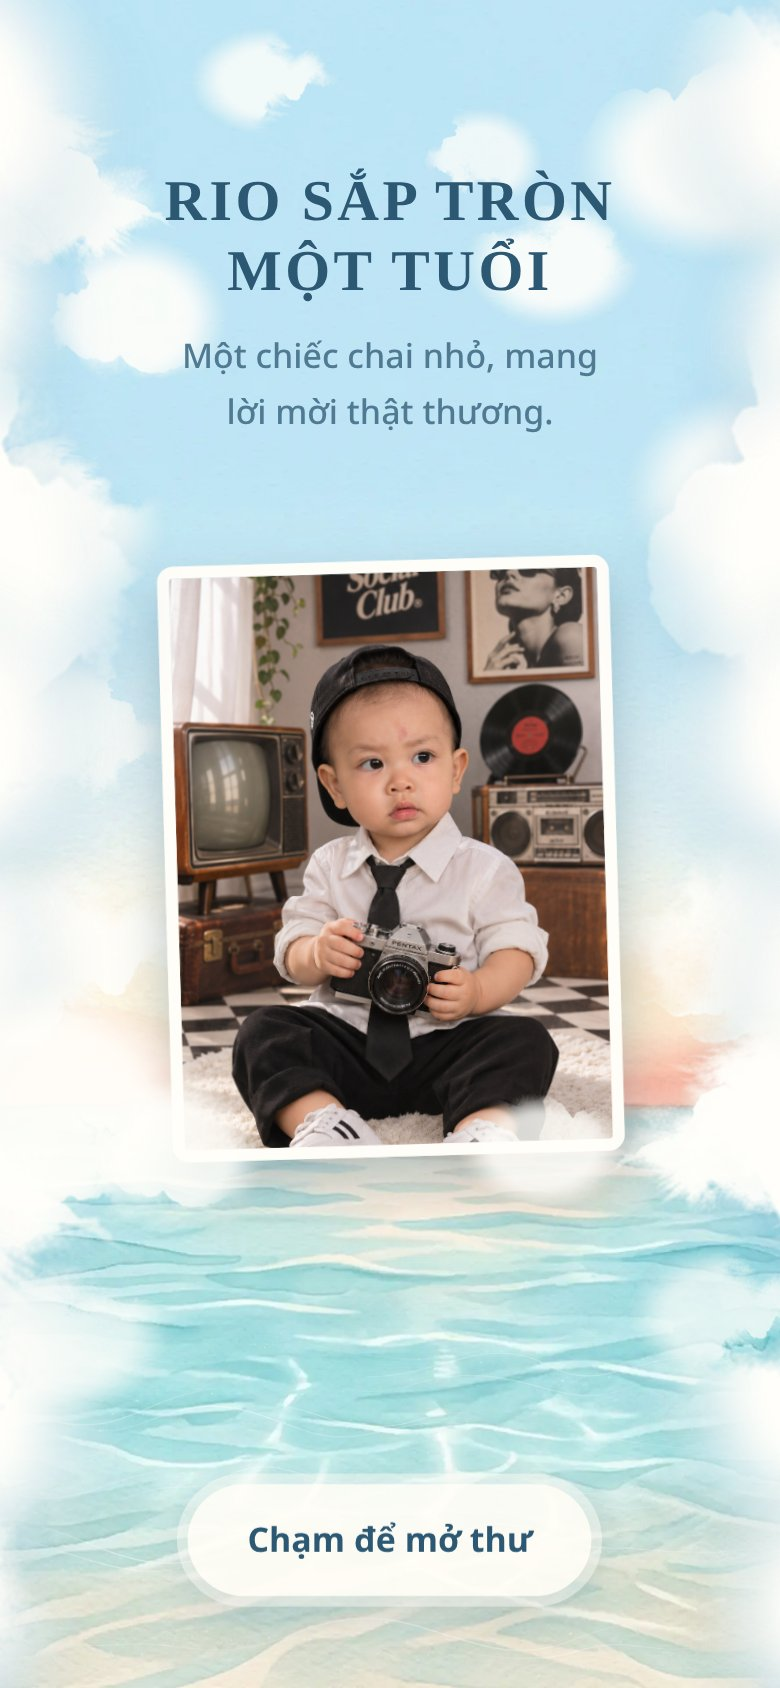
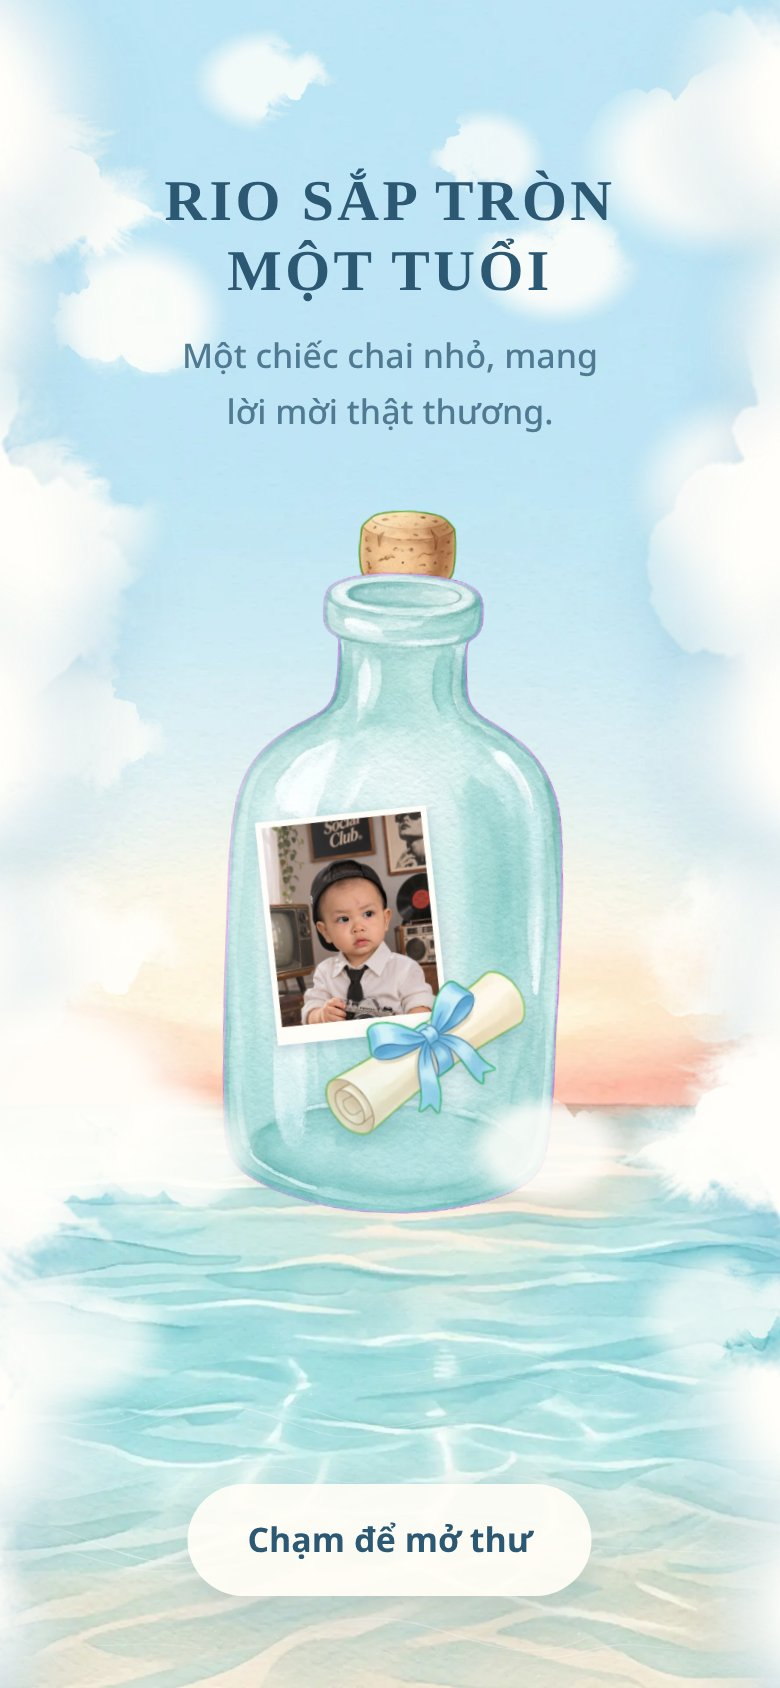
khach chu-thien-duong: khoi phuc bia chai goc, chi doi anh nho trong chai sang anh Rio cam may anh

diff --git a/products/Invitation/Other/khach_chu-thien-duong/index.html b/products/Invitation/Other/khach_chu-thien-duong/index.html
@@ -45,8 +45,7 @@ a{color:inherit}
 .bia-tieu{font-family:var(--font-h);font-weight:600;font-size:clamp(1.65rem,7.4vw,2.2rem);letter-spacing:.06em;line-height:1.2;color:var(--ink);animation:hien 1.8s var(--soft) both .2s}
 .bia-sub{text-wrap:balance;font-size:1.06rem;color:var(--ink-2);margin-top:10px;animation:hien 1.8s var(--soft) both .7s}
 @keyframes hien{from{opacity:0;transform:translateY(16px)}to{opacity:1;transform:none}}
-.chai-dat{--w:min(58vw,32svh,250px);position:absolute;z-index:2;left:50%;top:33svh;width:var(--w);margin-left:calc(var(--w) / -2);cursor:pointer;animation:troi-vao 3.6s var(--soft) both}
-.chai-anh-moi{position:relative;display:block;width:100%;border:6px solid #fffdf8;border-radius:8px;box-shadow:0 12px 26px rgba(44,88,115,.35);transform:rotate(-2deg)}
+.chai-dat{--w:min(44vw,23svh,210px);position:absolute;z-index:2;left:50%;top:33svh;width:var(--w);margin-left:calc(var(--w) / -2);cursor:pointer;animation:troi-vao 3.6s var(--soft) both}
 @keyframes troi-vao{from{opacity:0;transform:translate(-62vw,7svh) rotate(-16deg)}to{opacity:1;transform:none}}
 .chai-bob{position:relative;display:block;width:100%;animation:bob 7s ease-in-out infinite alternate;transform-origin:50% 72%}
 @keyframes bob{from{transform:translateY(-7px) rotate(-3deg)}to{transform:translateY(9px) rotate(3.5deg)}}
@@ -284,7 +283,7 @@ textarea{min-height:104px;resize:vertical;line-height:30px;background-image:repe
 .nhac svg{width:22px;height:22px}
 .nhac[aria-pressed="true"]{color:var(--coral-d)}
 .nhac[aria-pressed="false"]::after{content:"";position:absolute;width:26px;height:2px;background:currentColor;transform:rotate(-45deg);border-radius:2px}
-@media (max-height:680px){.bia-chu{padding-top:40px}.bia-tieu{font-size:1.5rem}.bia-sub{font-size:1rem;margin-top:6px}.chai-dat{--w:min(46vw,22svh);top:42svh}.than-gui{margin-bottom:2px}}
+@media (max-height:680px){.bia-chu{padding-top:40px}.bia-tieu{font-size:1.5rem}.bia-sub{font-size:1rem;margin-top:6px}.chai-dat{--w:min(38vw,17svh);top:42svh}.than-gui{margin-bottom:2px}}
 /* Màn hình lớn: giữ thiệp trong một cột khổ điện thoại, nền trời mờ hai bên */
 @media (min-width:700px){
   body{background:linear-gradient(#CDE9F6,#EAF5F4 55%,#F6E9D6) fixed}
@@ -316,7 +315,13 @@ textarea{min-height:104px;resize:vertical;line-height:30px;background-image:repe
   </div>
   <div class="chai-dat" id="chai">
     <span class="chai-bob">
-      <img class="chai-anh-moi" id="anhChai" src="photos/nh_Rio_34.png" alt="Bé Chu Thiên Dương cầm máy ảnh">
+      <img class="chai-nut" id="nutChai" src="images/cork.webp" alt="">
+      <img class="chai-img" src="images/bottle.webp" alt="Chai thủy tinh có cuộn thư và ảnh của Rio">
+      <span class="ben-trong">
+        <span class="chai-anh"><img src="photos/nh_Rio_mini.png" alt="Bé Chu Thiên Dương cầm máy ảnh"></span>
+        <img class="chai-cuon" src="images/scroll.webp" alt="">
+      </span>
+      <span class="chai-kinh"></span>
     </span>
   </div>
   <div class="mat-nuoc" aria-hidden="true"></div>
@@ -574,7 +579,7 @@ textarea{min-height:104px;resize:vertical;line-height:30px;background-image:repe
 
   TpxFx.mo({
     cua: '#cua', nut: '#openBtn', thoiGian: 4100, khiMoSau: 3500,
-    bung: { tu: $('anhChai'), tre: 380, n: 14, hinh: ['sao4', 'tron'], mau: ['#FFFFFF', '#FFE9C7', '#BFE3F5'] }
+    bung: { tu: $('nutChai'), tre: 380, n: 14, hinh: ['sao4', 'tron'], mau: ['#FFFFFF', '#FFE9C7', '#BFE3F5'] }
   });
   $('openBtn').addEventListener('click', function () {
     setTimeout(function () { cua.classList.add('re'); }, 1900);
